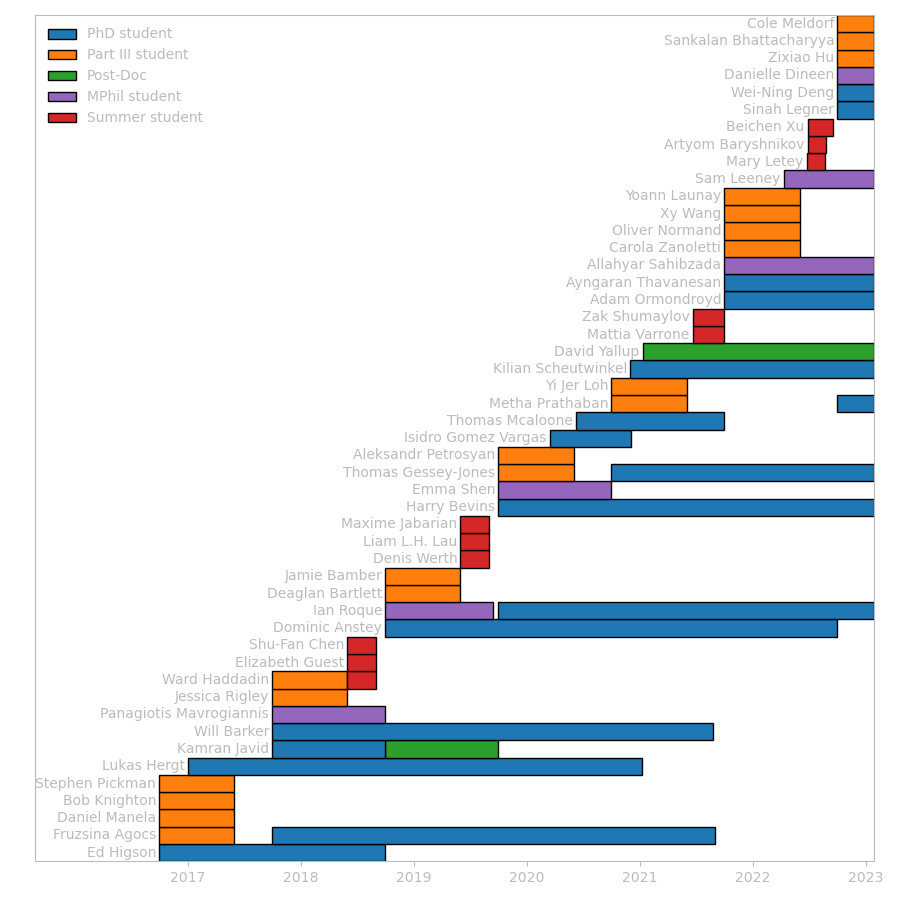
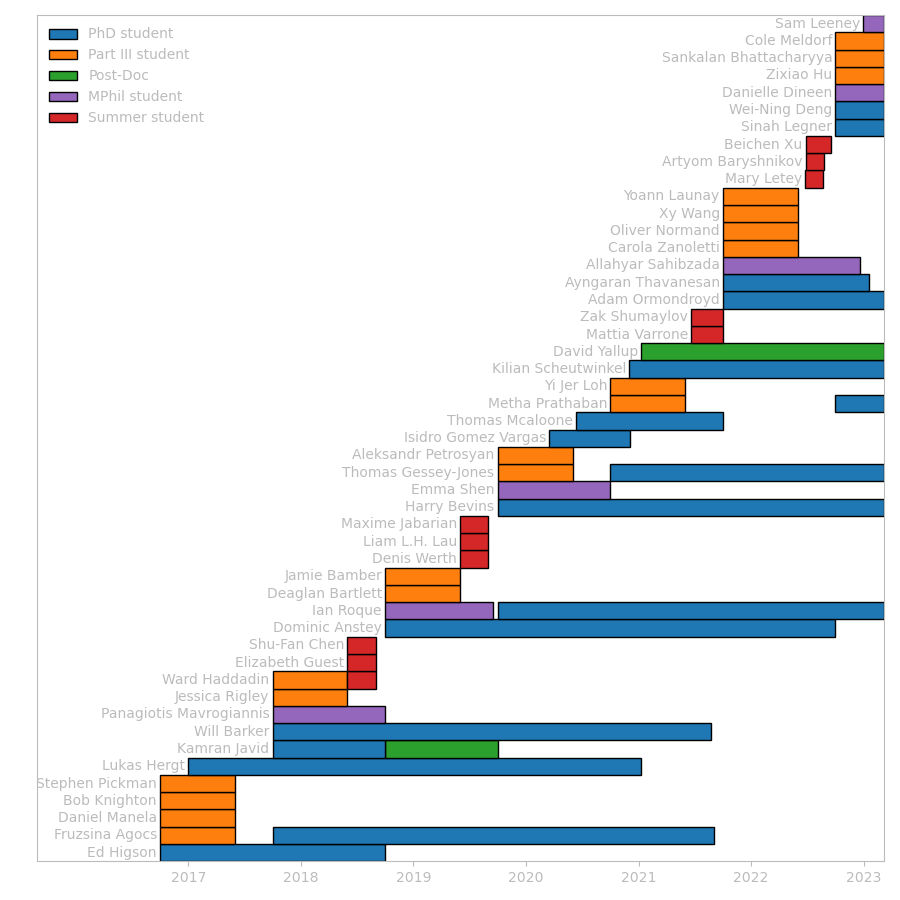
Updated students

diff --git a/assets/students/students.html b/assets/students/students.html
@@ -117,22 +117,6 @@
       </p>
     </div>
     <div class="grid-item">
-      <img src="/assets/students/images/ayngaran_thavanesan.jpg" />
-    </div>
-    <div class="grid-item">
-      <p>
-        <font size="+2">Ayngaran Thavanesan</font>
-      </p>
-      <p>
-        <ul>
-          <li>PhD student from Oct 2021<ul><li>co-supervised with <a href="https://www.nottingham.ac.uk/physics/people/david.stefanyszyn">David Stefanyszyn</a></li></ul></li>
-          <li>
-            <a href="https://arxiv.org/search/?query=handley%2C+w%3B+Thavanesan%2CA&searchtype=author">Shared research papers (1)</a>
-          </li>
-        </ul>
-      </p>
-    </div>
-    <div class="grid-item">
       <img src="/assets/students/images/kilian_scheutwinkel.jpg" />
     </div>
     <div class="grid-item">
@@ -243,6 +227,31 @@
   <h1>MPhil students</h1>
   <div class="grid">
     <div class="grid-item">
+      <img src="/assets/students/images/sam_leeney.jpg" />
+    </div>
+    <div class="grid-item">
+      <p>
+        <font size="+2">Sam Leeney</font>
+      </p>
+      <p>
+        <ul>
+          <li>MPhil student from Dec 2022<ul><li>co-supervised with <a href="https://www.phy.cam.ac.uk/directory/dr-eloy-de-lera-acedo">Eloy de Lera Acedo</a></li></ul></li>
+          <li>
+            <a href="https://arxiv.org/search/?query=handley%2C+w%3B+Leeney%2CS&searchtype=author">Shared research papers (1)</a>
+          </li>
+          <li>Links:</li>
+          <ul>
+            <li>
+              <a href="https://github.com/samleeney">Webpage</a>
+            </li>
+            <li>
+              <a href="https://www.cavendishradiocosmology.com/">Group Webpage</a>
+            </li>
+          </ul>
+        </ul>
+      </p>
+    </div>
+    <div class="grid-item">
       <img src="/assets/students/images/danielle_dineen.jpg" />
     </div>
     <div class="grid-item">
@@ -261,44 +270,6 @@
               <a href="https://arxiv.org/search/?query=danielle+dineen&searchtype=all&source=header">arxiv papers</a>
             </li>
           </ul>
-        </ul>
-      </p>
-    </div>
-    <div class="grid-item">
-      <img src="/assets/students/images/sam_leeney.jpg" />
-    </div>
-    <div class="grid-item">
-      <p>
-        <font size="+2">Sam Leeney</font>
-      </p>
-      <p>
-        <ul>
-          <li>MPhil student from Apr 2022<ul><li>co-supervised with <a href="https://www.phy.cam.ac.uk/directory/dr-eloy-de-lera-acedo">Eloy de Lera Acedo</a></li></ul></li>
-          <li>
-            <a href="https://arxiv.org/search/?query=handley%2C+w%3B+Leeney%2CS&searchtype=author">Shared research papers (1)</a>
-          </li>
-          <li>Links:</li>
-          <ul>
-            <li>
-              <a href="https://github.com/samleeney">Webpage</a>
-            </li>
-            <li>
-              <a href="https://www.cavendishradiocosmology.com/">Group Webpage</a>
-            </li>
-          </ul>
-        </ul>
-      </p>
-    </div>
-    <div class="grid-item">
-      <img src="/assets/students/images/allahyar_sahibzada.jpg" />
-    </div>
-    <div class="grid-item">
-      <p>
-        <font size="+2">Allahyar Sahibzada</font>
-      </p>
-      <p>
-        <ul>
-          <li>MPhil student from Oct 2021</li>
         </ul>
       </p>
     </div>
@@ -392,6 +363,22 @@
 <div class="wrapper" style="margin-top:30pt">
   <h1>Past PhD students</h1>
   <div class="grid">
+    <div class="grid-item">
+      <img src="/assets/students/images/ayngaran_thavanesan.jpg" />
+    </div>
+    <div class="grid-item">
+      <p>
+        <font size="+2">Ayngaran Thavanesan</font>
+      </p>
+      <p>
+        <ul>
+          <li>PhD student from Oct 2021 to Jan 2023<ul><li>co-supervised with <a href="https://www.nottingham.ac.uk/physics/people/david.stefanyszyn">David Stefanyszyn</a></li></ul></li>
+          <li>
+            <a href="https://arxiv.org/search/?query=handley%2C+w%3B+Thavanesan%2CA&searchtype=author">Shared research papers (1)</a>
+          </li>
+        </ul>
+      </p>
+    </div>
     <div class="grid-item">
       <img src="/assets/students/images/thomas_mcaloone.jpg" />
     </div>
@@ -569,6 +556,19 @@
 <div class="wrapper" style="margin-top:30pt">
   <h1>Past MPhil students</h1>
   <div class="grid">
+    <div class="grid-item">
+      <img src="/assets/students/images/allahyar_sahibzada.jpg" />
+    </div>
+    <div class="grid-item">
+      <p>
+        <font size="+2">Allahyar Sahibzada</font>
+      </p>
+      <p>
+        <ul>
+          <li>MPhil student from Oct 2021 to Dec 2022</li>
+        </ul>
+      </p>
+    </div>
     <div class="grid-item">
       <img src="/assets/students/images/emma_shen.jpg" />
     </div>
